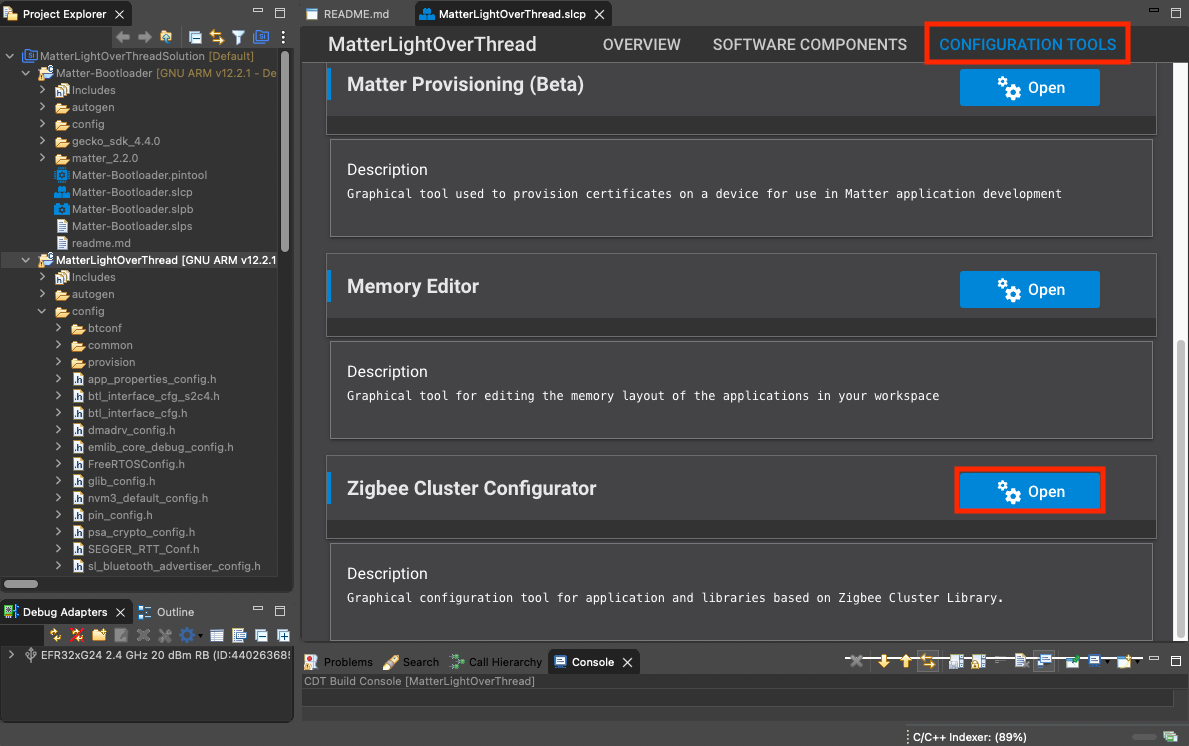
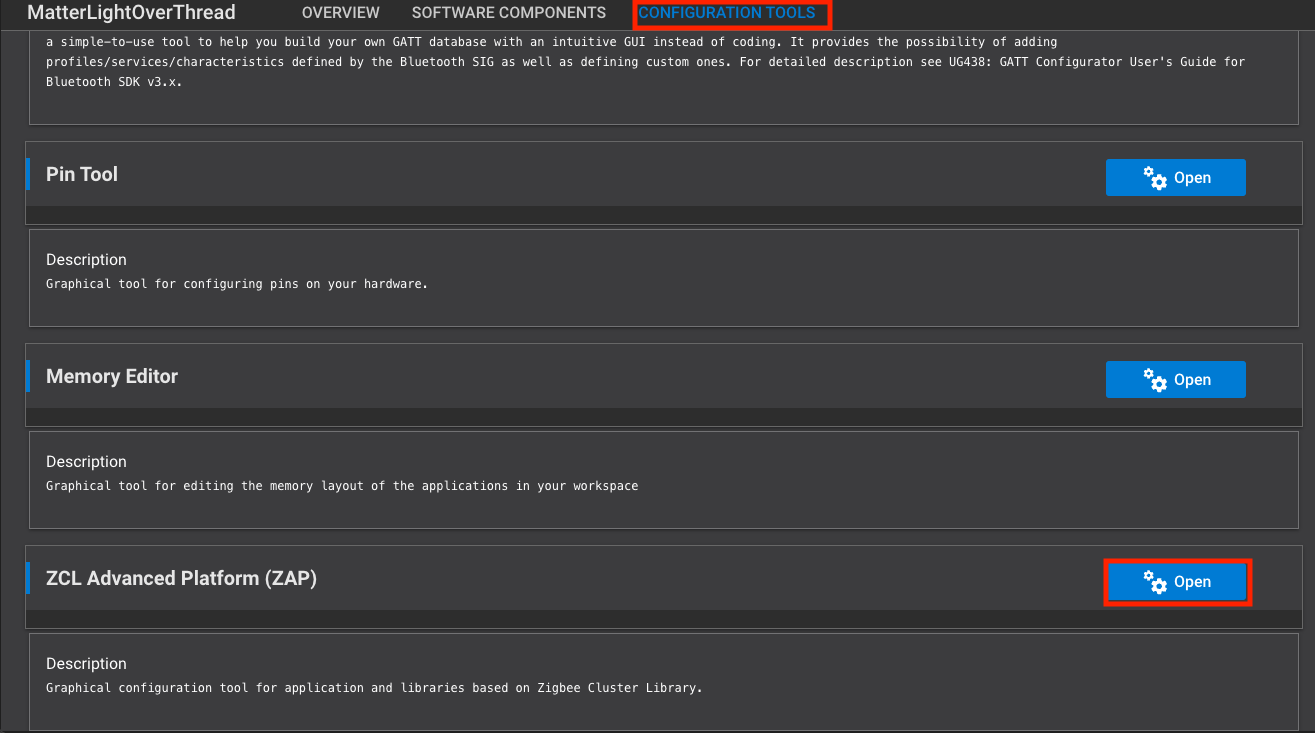
update zap terminology

Changed region(s): [[0.0, 0.0, 1.0, 0.9604], [0.0, 0.9604, 1.0, 1.0], [0.8091, 0.3602, 0.9336, 0.4202]]

diff --git a/sld250-matter-references/matter-zap.md b/sld250-matter-references/matter-zap.md
@@ -52,7 +52,7 @@ Some applications have callbacks that are left to be implemented by the device
 manufacturer. For example, the storage and management of users and credentials in
 the lock-app is left up to the application developer.
 
->**Note**: When enabling clusters in a Matter project within Simplicity Studio, users should always modify the cluster within the **Zigbee Cluster Configurator** and _not_ manually install the corresponding cluster component within the **Software Components** tab.
+>**Note**: When enabling clusters in a Matter project within Simplicity Studio, users should always modify the cluster within the **ZCL Advanced Platform (ZAP)** and _not_ manually install the corresponding cluster component within the **Software Components** tab.
 
 ## ZAP Tool
 

diff --git a/sld248-matter-overview-guides/matter-icd.md b/sld248-matter-overview-guides/matter-icd.md
@@ -55,7 +55,7 @@ To begin creating an OpenThread ICD example, create a generic Matter over Thread
 
     ![Project Generation](images/icd-project-generation.png)
 
-2. Navigate to the **Configuration Tools** section and open the **Zigbee Cluster Configurator**.
+2. Navigate to the **Configuration Tools** section and open the **ZCL Advanced Platform (ZAP)**.
 
     ![ICD ZAP](images/icd-open-zap.png)
 
